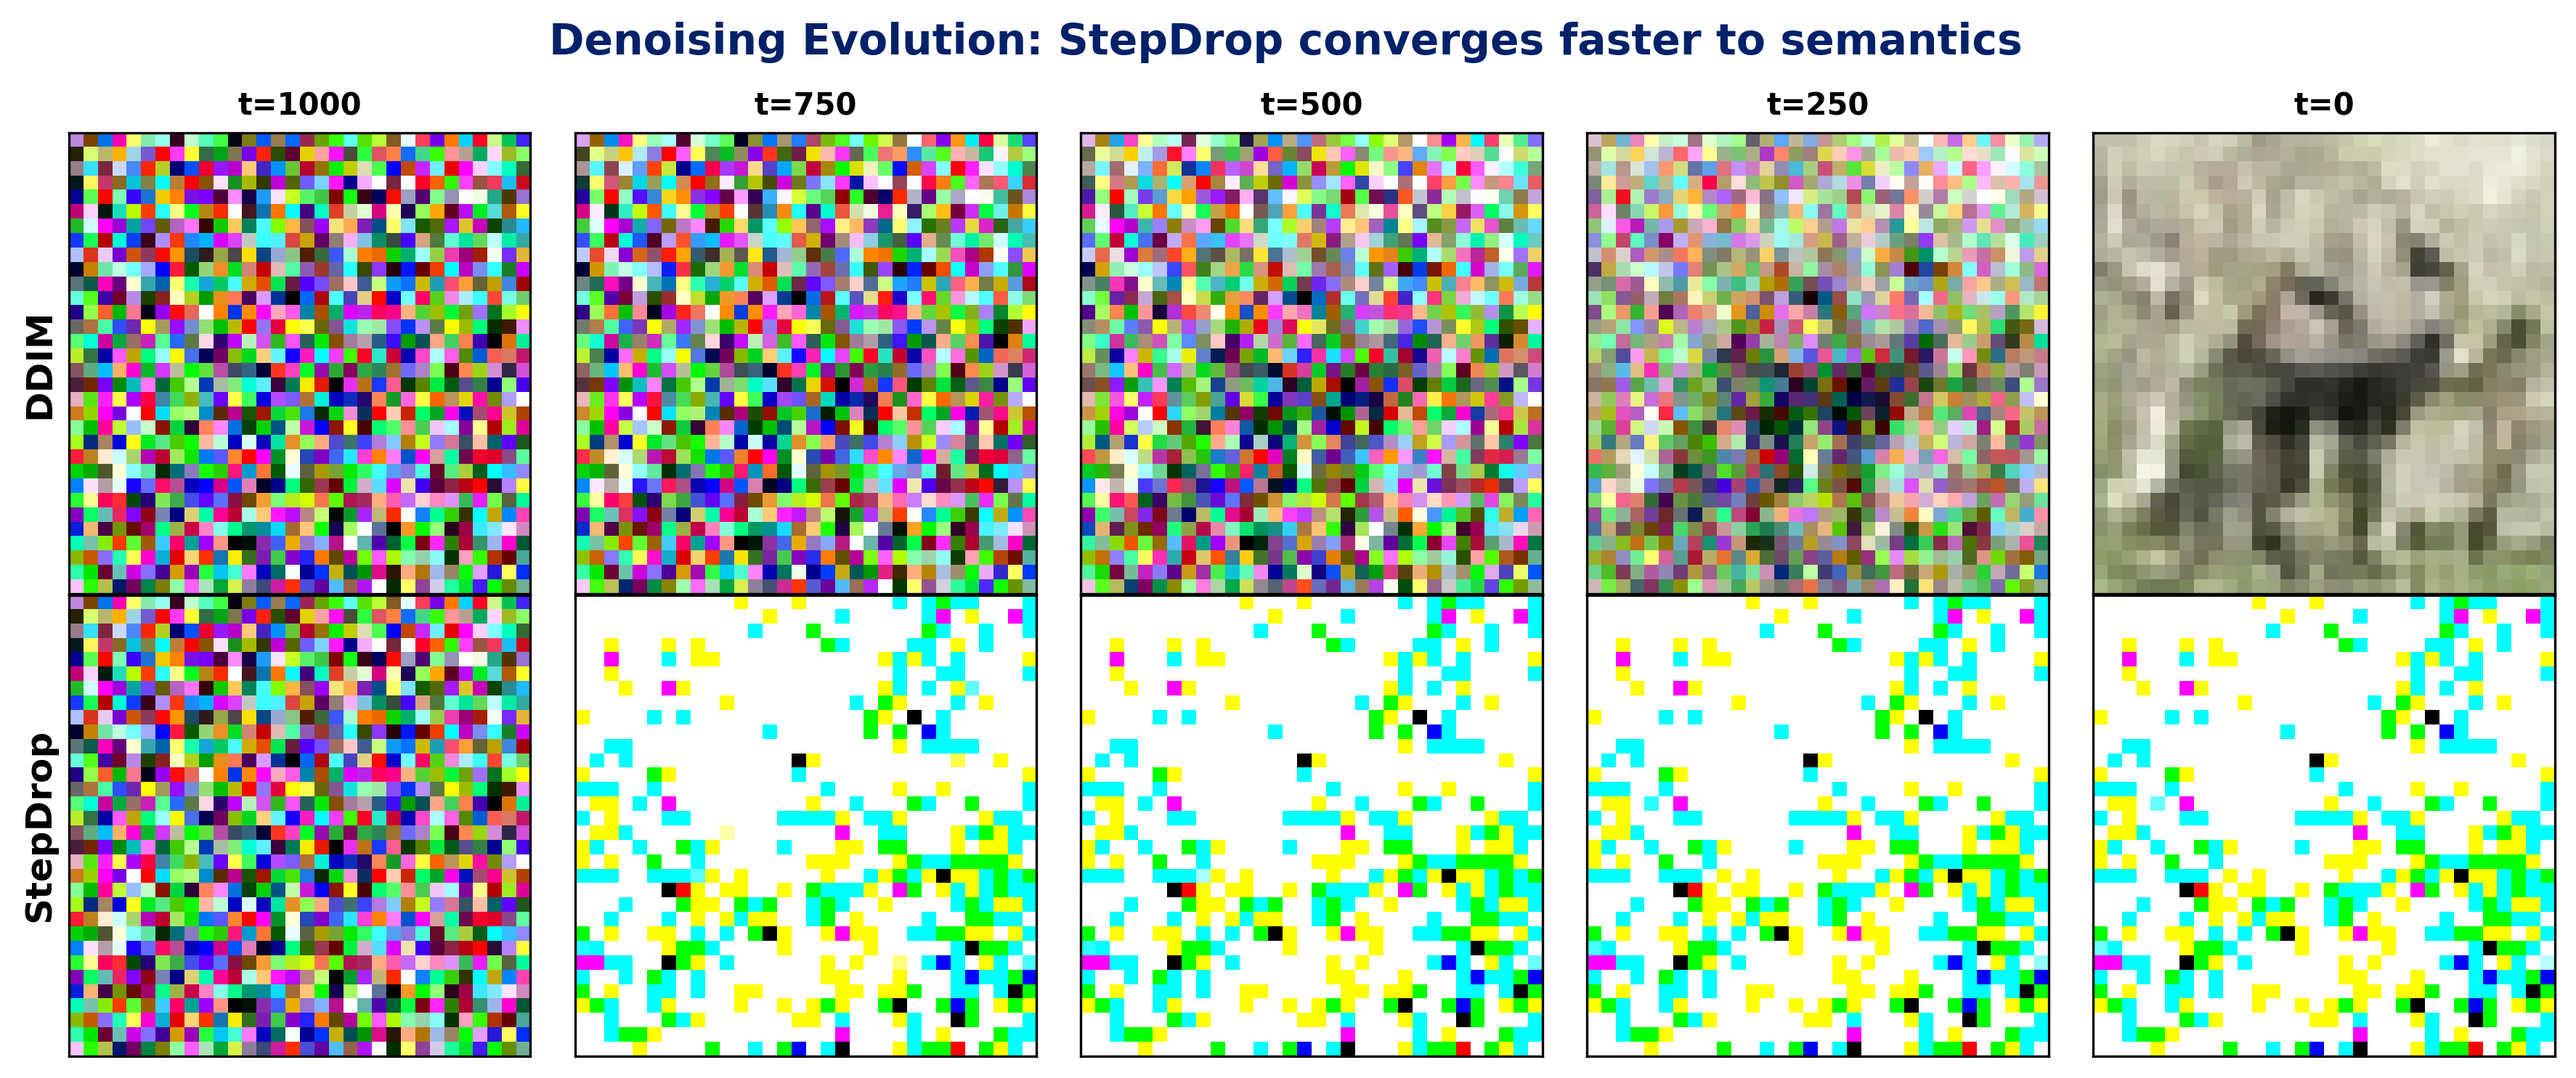
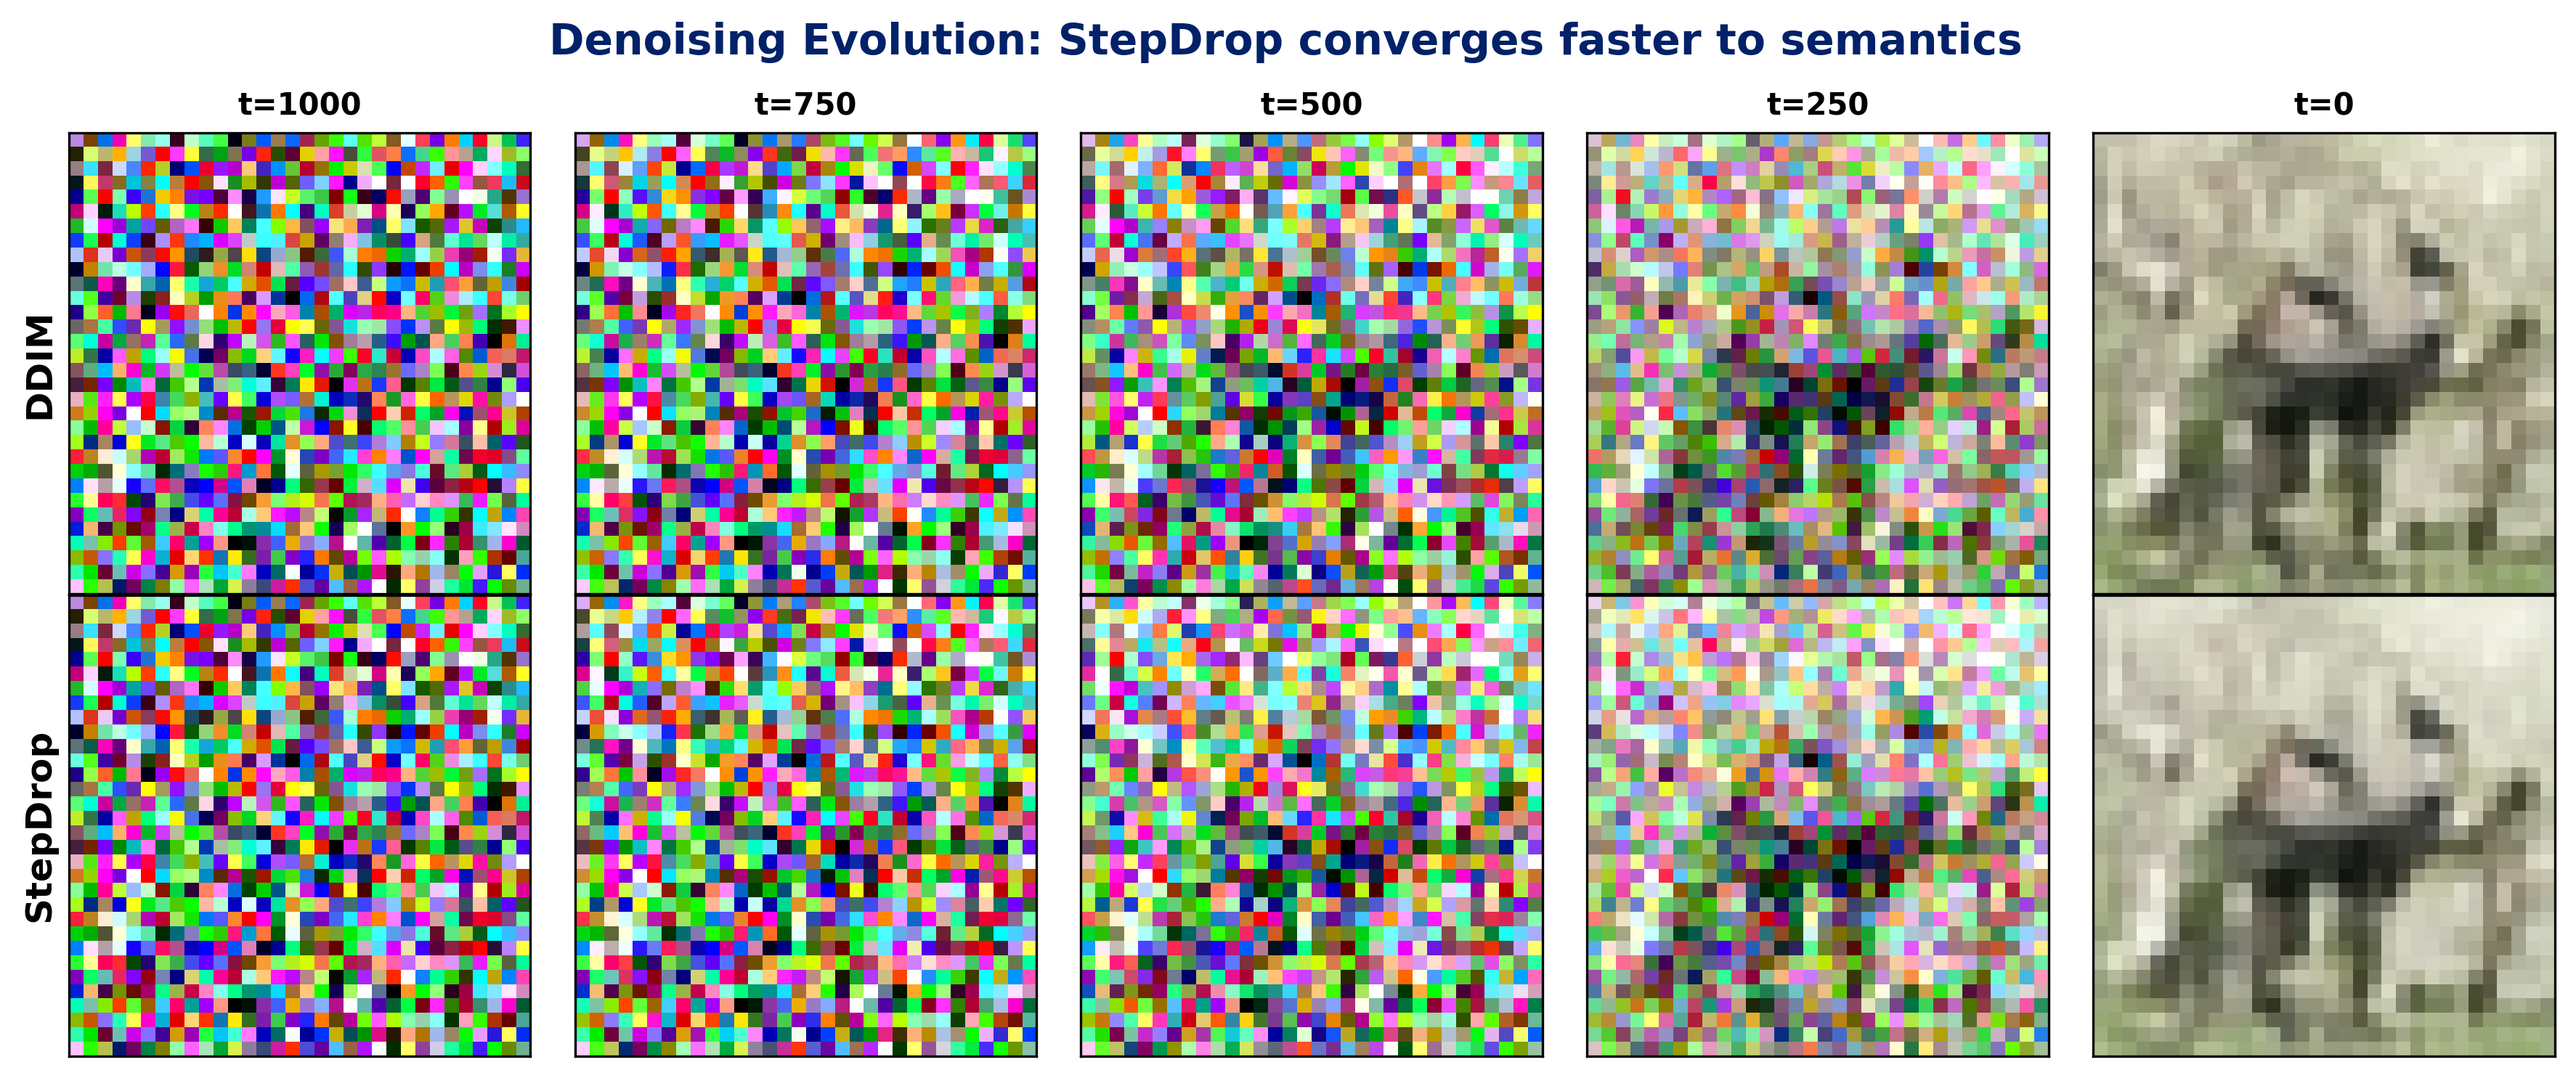
fix: improve numerical stability in x0 prediction and refine initial timestep selection.

Changed region(s): [[0.2171, 0.5266, 0.9924, 0.9912]]

diff --git a/scripts/plot_denoising_evolution.py b/scripts/plot_denoising_evolution.py
@@ -58,6 +58,10 @@ def sample_with_intermediates(
         # Ensure endpoints
         if 0 not in active_timesteps: active_timesteps.append(0)
         active_timesteps = sorted(set(active_timesteps), reverse=True)
+        print(f"DEBUG StepDrop Timesteps ({len(active_timesteps)}): {active_timesteps}")
+        print(f"DEBUG Alphas[999]: {sampler.alphas_cumprod[999]:.4f}")
+        print(f"DEBUG Alphas[750]: {sampler.alphas_cumprod[750]:.4f}")
+        print(f"DEBUG Alphas[0]: {sampler.alphas_cumprod[0]:.4f}")
         
     # --- Shared Loop Logic (DDIM-style update) ---
     # We need alphas from the sampler
@@ -81,7 +85,7 @@ def sample_with_intermediates(
         alpha_cumprod_t = alphas_cumprod[t].to(device)
         
         # Predict x_0
-        pred_x0 = (x - torch.sqrt(1 - alpha_cumprod_t) * predicted_noise) / torch.sqrt(alpha_cumprod_t)
+        pred_x0 = (x - torch.sqrt(1 - alpha_cumprod_t) * predicted_noise) / (torch.sqrt(alpha_cumprod_t) + 1e-8)
         # pred_x0 = torch.clamp(pred_x0, -1, 1) # Standard DDIM doesn't always clip intermediate x0, but usually good
         
         # Get next timestep
@@ -95,6 +99,7 @@ def sample_with_intermediates(
         # DDIM update
         pred_dir = torch.sqrt(1 - alpha_cumprod_t_prev) * predicted_noise
         x = torch.sqrt(alpha_cumprod_t_prev) * pred_x0 + pred_dir
+
         
     # Always save final
     if 0 in target_timesteps:

diff --git a/src/sampler/stepdrop.py b/src/sampler/stepdrop.py
@@ -699,7 +699,7 @@ class TargetNFEStepDropSampler:
             start_range = int(self.num_timesteps * 0.1)
             end_range = int(self.num_timesteps * 0.1)
             
-            start_steps = np.linspace(self.num_timesteps - 1, self.num_timesteps - start_range, n_start, dtype=int)
+            start_steps = np.linspace(self.num_timesteps - 10, self.num_timesteps - start_range, n_start, dtype=int)
             end_steps = np.linspace(end_range, 0, n_end, dtype=int)
             middle_steps = np.linspace(self.num_timesteps - start_range - 1, end_range + 1, n_middle, dtype=int)
             
@@ -782,7 +782,7 @@ class TargetNFEStepDropSampler:
             alpha_cumprod_t = self.alphas_cumprod[t].to(device)
             
             # Predict x_0
-            pred_x0 = (x - torch.sqrt(1 - alpha_cumprod_t) * predicted_noise) / torch.sqrt(alpha_cumprod_t)
+            pred_x0 = (x - torch.sqrt(1 - alpha_cumprod_t) * predicted_noise) / (torch.sqrt(alpha_cumprod_t) + 1e-8)
             
             if clip_denoised:
                 pred_x0 = torch.clamp(pred_x0, -1, 1)
